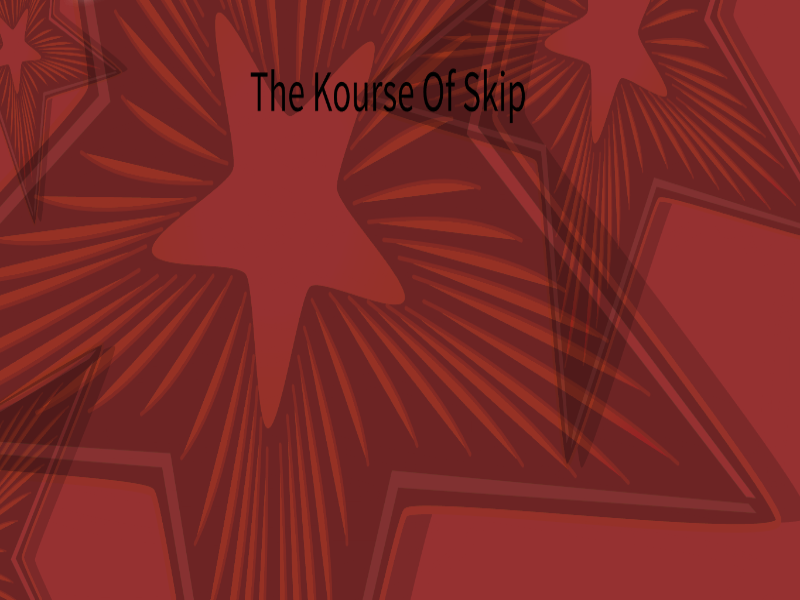
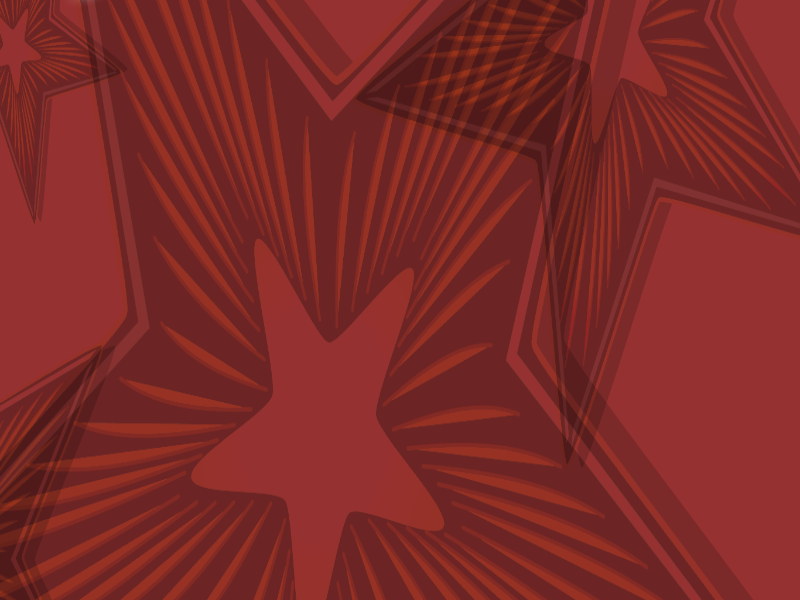
what the dog doing?

diff --git a/assets/src/classes.py b/assets/src/classes.py
@@ -83,7 +83,7 @@ class Menu:
     
     def draw_instructions(self, screen):
         """Dibuja la pantalla de instrucciones"""
-        screen.fill(self.background_color)
+        screen.blit(self.background_image, (0, 0))
         
         title = self.font_title.render("INSTRUCCIONES", True, self.selected_color)
         title_rect = title.get_rect(center=(self.screen_width // 2, 30))